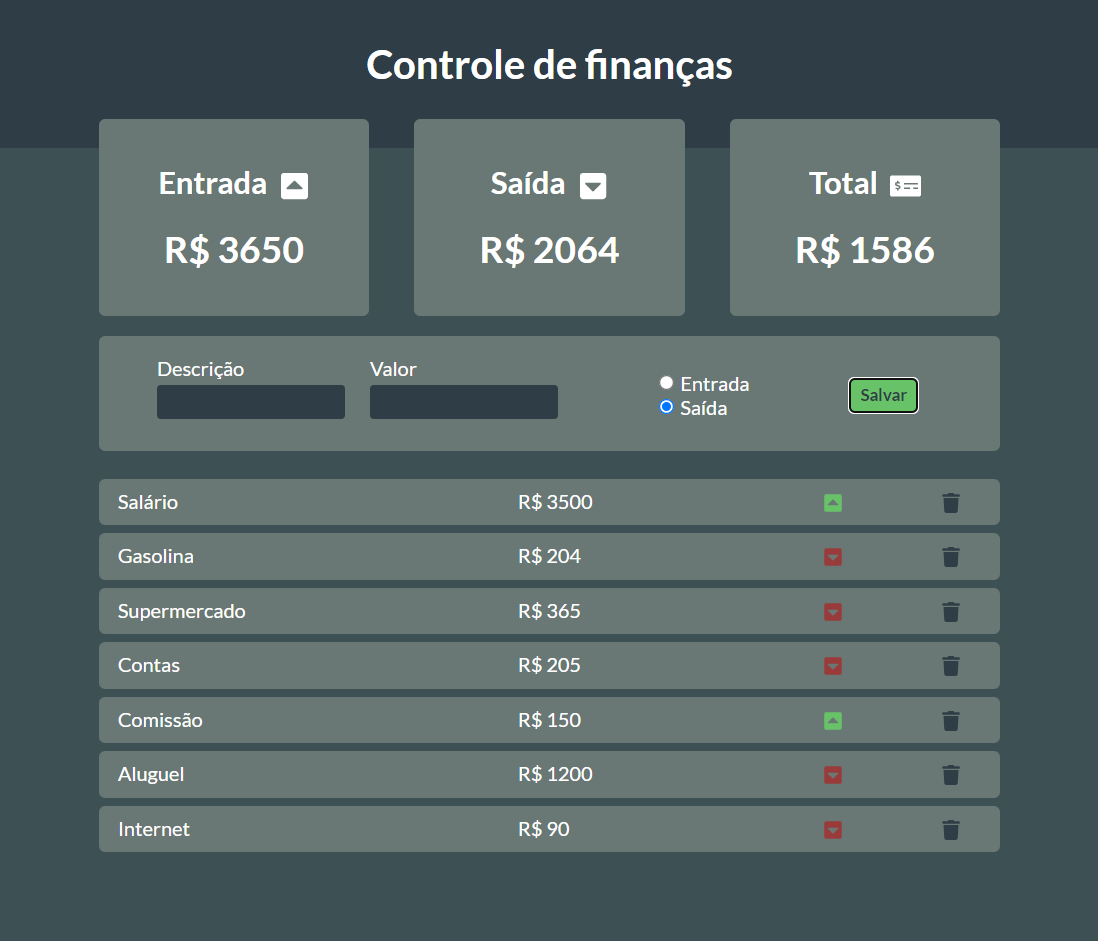
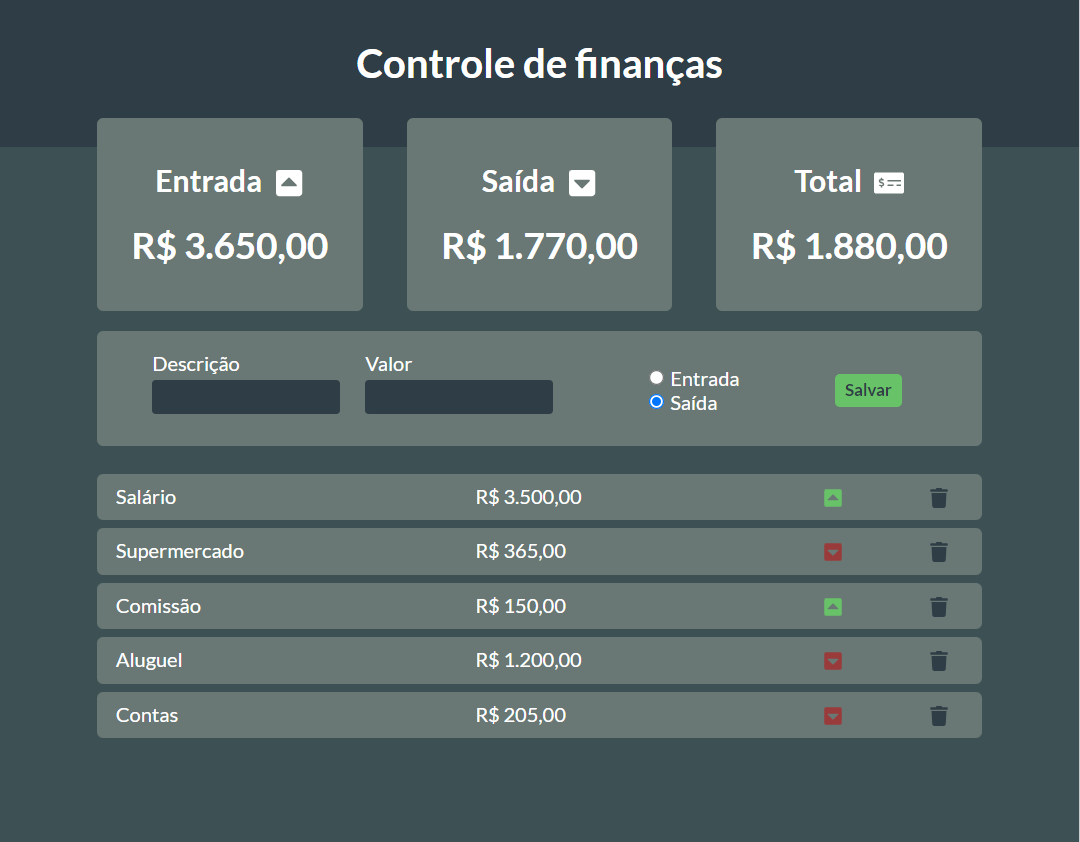
Alterada a responsividade do componente Saldo

diff --git a/src/components/Saldo/ConteinerSaldo.css b/src/components/Saldo/ConteinerSaldo.css
@@ -1,15 +1,38 @@
 main {
     margin: auto;
     display: flex;
-    flex-wrap: nowrap;
+    flex-wrap: wrap;
     justify-content: space-around;
     width: 70%;
+    gap: 7px;
 }
 
-@media (max-width: 890px) {
+@media (max-width: 990px) {
 
     main {
         width: 82%;
         justify-content: space-between;
+    }
+}
+
+@media (max-width: 570px) {
+    main {
+        justify-content: center;
+    }
+
+    main section:last-child {
+        width: 240px;
+        margin-top: 0;
+    }
+}
+
+@media (max-width: 392px){
+    main section:nth-child(2) {
+        width: 240px;
+        margin-top: 0;
+    }
+
+    main section:first-child {
+        width: 240px;
     }
 }

diff --git a/src/components/Saldo/ItemSaldo.css b/src/components/Saldo/ItemSaldo.css
@@ -4,6 +4,7 @@ section {
     color: #FFF;
     padding: 1.5em 0;
     width: min(30%, 230px);
+    min-width: 225px;
     text-align: center;
     border-radius: 5px;
 }
@@ -22,10 +23,11 @@ svg {
     margin-left: 5px;
 }
 
-@media (max-width: 890px) {
+@media (max-width: 990px) {
     
     section {
         padding: max(5%, 1em) 0;
+        min-width: 150px;
     }
 
     h2 {
@@ -33,12 +35,6 @@ svg {
     }
 
     span {
-      font-size: max(3.4vw, 1.3em);  
-    }
-}
-
-@media (max-width: 470px){
-    h2 svg {
-        display: none;
+      font-size: max(3.2vw, 1.3em);  
     }
 }

diff --git a/src/components/Form/Form.css b/src/components/Form/Form.css
@@ -2,6 +2,7 @@ form {
     background-color: var(--verde-claro);
     color: #FFF;
     width: 70%;
+    min-width: 183px;
     margin: 1em auto;
     border-radius: 5px;
     display: flex;
@@ -59,7 +60,7 @@ button.btn-salvar:hover {
     color: #FFF;
 }
 
-@media (max-width: 890px) {
+@media (max-width: 990px) {
 
     form {
         width: 82%;

diff --git a/src/components/Lista/Lista.css b/src/components/Lista/Lista.css
@@ -45,7 +45,7 @@ button svg {
     color: var(--verde-escuro)
 }
 
-@media (max-width: 890px) {
+@media (max-width: 990px) {
 
     table {
         width: 82%;
